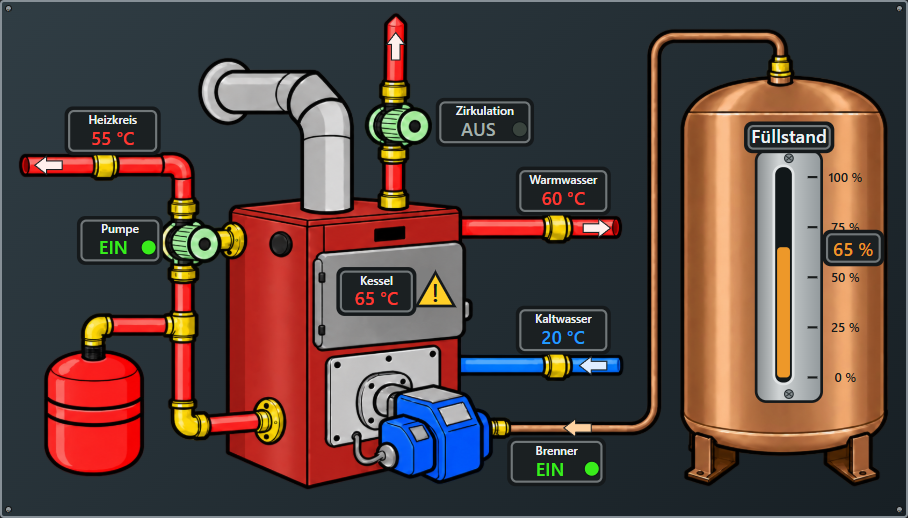
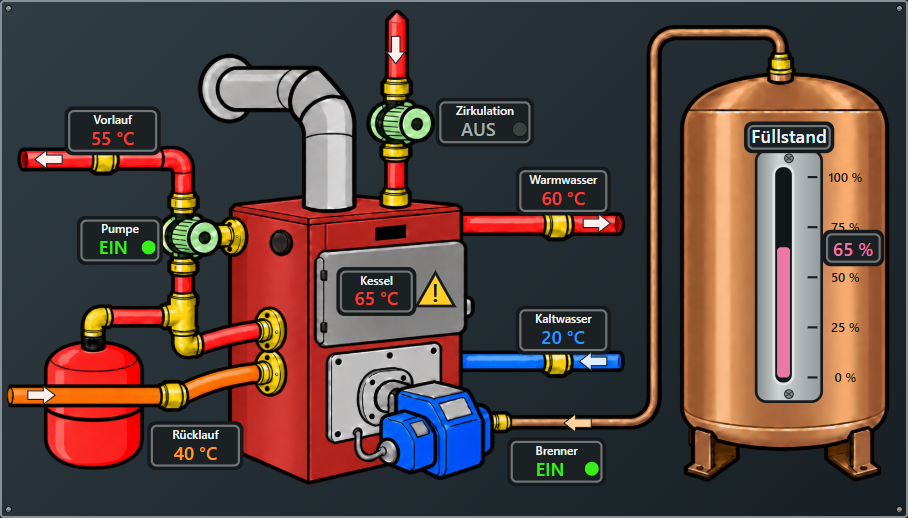
Document heating return controls and revised artwork

Changed region(s): [[0.0, 0.0, 0.9868, 0.9575], [0.0925, 0.2162, 0.1542, 0.2471]]

diff --git a/docs/projects/grafik-visual-studio/industrial.md b/docs/projects/grafik-visual-studio/industrial.md
@@ -5,7 +5,7 @@ description: Installation und Einstellungen des externen Industriepakets für Gr
 
 # UGSo Industrie – Widgets
 
-Das externe Widget-Paket **UGSo Industrie 0.11.5** enthält sechzehn Widgets: **Gauge/Poti – 270°**, **Kippschalter – 1 bis 4**, **Wippschalter – 1 bis 4**, **LCD – 20×4**, **LCD – 16×2**, **Linear-Gauge / Schieberegler** und **Zählwerk** in normaler und schmaler Ausführung, **7-Segment – LED**, **16-Segment – LED**, **16-Segment – LCD**, **Industrie-Uhr – Nixie / LED / LCD**, **Industrie-Wetter – LCD / LED**, **Blindelement** sowie **Heizung – Kessel und Öltank**. Industriestyle ergänzt Gehäuse, Schraubenköpfe und Rahmen. Das Heizungswidget mit der detaillierten Grafik benötigt **Studio 0.1.253 oder neuer**.
+Das externe Widget-Paket **UGSo Industrie 0.11.6** enthält sechzehn Widgets: **Gauge/Poti – 270°**, **Kippschalter – 1 bis 4**, **Wippschalter – 1 bis 4**, **LCD – 20×4**, **LCD – 16×2**, **Linear-Gauge / Schieberegler** und **Zählwerk** in normaler und schmaler Ausführung, **7-Segment – LED**, **16-Segment – LED**, **16-Segment – LCD**, **Industrie-Uhr – Nixie / LED / LCD**, **Industrie-Wetter – LCD / LED**, **Blindelement** sowie **Heizung – Kessel und Öltank**. Industriestyle ergänzt Gehäuse, Schraubenköpfe und Rahmen. Das Heizungswidget mit der detaillierten Grafik benötigt **Studio 0.1.253 oder neuer**.
 
 **Updatehinweis:** Version 0.11.4 konnte wegen geänderter Widgetbeschriftungen nicht über eine bestehende Installation installiert werden. Verwende stattdessen **0.11.5** als lokale `.wg`-Datei; sie bewahrt die veröffentlichten Widgetverträge und Entitätsbindungen. Studio **0.1.259** zeigt die Vorlauf-Einstellungen unter der neuen Bezeichnung an, ohne gespeicherte Gruppenschlüssel zu ändern.
 
@@ -37,12 +37,15 @@ Die detaillierte transparente PNG-Vorlage zeigt einen dunkelroten Heizkessel, zw
 | Anzeige | Entität und Einstellungen |
 | --- | --- |
 | Vorlauftemperatur | Numerische Entität, ausblendbar, eigene Textfarbe |
+| Rücklauftemperatur | Numerische Entität, ausblendbar, eigene Textfarbe; Anzeige unter dem orangefarbenen Rohr |
 | Kessel-, Warmwasser-, Kaltwassertemperatur | Je eine numerische Entität und eigene Textfarbe |
 | Heizkreispumpe, Zirkulationspumpe, Brenner | Je eine Boolean-Entität; Statusanzeige separat ausblendbar |
 | Störung | Boolean-Entität; Warnsymbol neben Kesseltemperatur, ausblendbar |
 | Tankfüllstand | Numerischer Sensor in Prozent **0–100 %**, Füllhöhe und Zahlenwert |
 
-Alle **neun Entitäten** besitzen die Home-Assistant-Auswahl. Boolean-Werte `on/off`, `true/false` und `1/0` werden erkannt; die sichtbare Beschriftung ist wählbar als **EIN/AUS**, **ON/OFF** oder **1/0**. Temperaturen übernehmen die Einheit der Entität und lassen sich unabhängig einfärben. Die Grundfarben entsprechen der Vorlage: rot für Temperaturen, blau für Kaltwasser, grün für eingeschalteten Status, gelb für Störung und orange für Füllstand.
+Alle **zehn Entitäten** besitzen die Home-Assistant-Auswahl. Boolean-Werte `on/off`, `true/false` und `1/0` werden erkannt; die sichtbare Beschriftung ist wählbar als **EIN/AUS**, **ON/OFF** oder **1/0**. Temperaturen übernehmen die Einheit der Entität und lassen sich unabhängig einfärben. Die Grundfarben entsprechen der Vorlage: rot für Temperaturen, orange für Rücklauf, blau für Kaltwasser, grün für eingeschalteten Status, gelb für Störung und rosa für Füllstand.
+
+Ab **Studio 0.1.260** liegt der linke rote Anschluss höher. Der orange Rücklauf verläuft davor mit leichtem Knick parallel zum Anschluss am Kessel; sein Pfeil sitzt links und zeigt nach rechts zum Kessel. Unter **Rücklauf** sind Entität, Anzeige sichtbar, Textfarbe und Flusspfeil einstellbar. Bestehende Widgets erhalten die Eigenschaften durch das Studio-Update; **Industrial 0.11.6** ergänzt die Anleitung und bewahrt die Paketverträge. Vorhandene eigene Füllstandsfarben bleiben erhalten; der alte orange Standard wird einmalig rosa.
 
 **Flusspfeile** für Vorlauf, Zirkulation, Warmwasser, Kaltwasser und die dünne kupferfarbene **Ölleitung zum Brenner** sind einzeln abschaltbar. Die rechte Pumpe befindet sich in einer senkrechten Leitung direkt vom Kessel nach oben. Warm- und Kaltwasser bleiben separate Leitungen. Der Tank-Sensor muss Prozent liefern; Liter werden nicht automatisch umgerechnet. Werte außerhalb 0–100 % begrenzen nur die Füllhöhe, der Originalwert bleibt als Zahl sichtbar.
 

diff --git a/docs/en/projects/grafik-visual-studio/industrial.md b/docs/en/projects/grafik-visual-studio/industrial.md
@@ -5,7 +5,7 @@ description: Installation and settings for the external Industrial package for G
 
 # UGSo Industrial – Widgets
 
-The external **UGSo Industrial 0.11.5** package contains sixteen widgets: **Gauge/Poti – 270°**, **Toggle switches – 1 to 4**, **Rocker switches – 1 to 4**, **LCD – 20×4**, **LCD – 16×2**, normal/slim **Linear gauge / slider** and **Odometer**, **7-segment LED**, **16-segment LED**, **16-segment LCD**, **Industrial clock – Nixie / LED / LCD**, **Industrial weather – LCD / LED**, **Blank panel**, and **Heating – boiler and oil tank**. Industrial styling adds a housing, corner screws and a frame. The detailed heating artwork requires **Studio 0.1.253 or newer**.
+The external **UGSo Industrial 0.11.6** package contains sixteen widgets: **Gauge/Poti – 270°**, **Toggle switches – 1 to 4**, **Rocker switches – 1 to 4**, **LCD – 20×4**, **LCD – 16×2**, normal/slim **Linear gauge / slider** and **Odometer**, **7-segment LED**, **16-segment LED**, **16-segment LCD**, **Industrial clock – Nixie / LED / LCD**, **Industrial weather – LCD / LED**, **Blank panel**, and **Heating – boiler and oil tank**. Industrial styling adds a housing, corner screws and a frame. The detailed heating artwork requires **Studio 0.1.253 or newer**.
 
 **Upgrade note:** Version 0.11.4 could not upgrade existing installations because widget captions changed. Use **0.11.5** as a local `.wg` file instead; it preserves published widget contracts and entity bindings. Studio **0.1.259** displays supply captions without changing persisted group keys.
 
@@ -37,12 +37,15 @@ The detailed transparent PNG reference places a dark-red boiler, two green pumps
 | Display | Entity and settings |
 | --- | --- |
 | Supply temperature | Numeric entity, optional display, individual text color |
+| Return temperature | Numeric entity, optional display, individual text color; panel below the orange pipe |
 | Boiler, hot and cold water temperatures | Independent numeric entities and text colors |
 | Heating pump, circulation pump, burner | Independent Boolean entities; each status panel can be hidden |
 | Fault | Boolean entity; warning next to boiler temperature, optional |
 | Tank level | Numeric percentage sensor **0–100 %**, liquid height and reading |
 
-All **nine entity fields** offer the Home Assistant picker. Boolean states `on/off`, `true/false` and `1/0` are recognized; labels can use **EIN/AUS**, **ON/OFF** or **1/0**. Temperature units come from the entity. Default colors match the concept: red temperatures, blue cold water, green active status, yellow fault and orange level.
+All **ten entity fields** offer the Home Assistant picker. Boolean states `on/off`, `true/false` and `1/0` are recognized; labels can use **EIN/AUS**, **ON/OFF** or **1/0**. Temperature units come from the entity. Default colors match the concept: red temperatures, orange return, blue cold water, green active status, yellow fault and pink level.
+
+Since **Studio 0.1.260**, the left red connection is raised and an orange return pipe runs in front with a slight bend parallel to the boiler connection. Its arrow sits at the left end and points right toward the boiler. **Return** properties provide entity selection, visibility, text color and an independent flow arrow. Existing widgets receive these controls through the Studio update; **Industrial 0.11.6** updates instructions while preserving package contracts. Custom tank colors are retained; the old orange default migrates once to pink.
 
 **Flow arrows** for supply, circulation, hot water, cold water and the thin copper **oil line toward the burner** can be disabled independently. The right pump sits in a straight vertical pipe rising from the boiler; hot and cold water are separate lines. The tank sensor must provide percent, with no automatic litre conversion. Out-of-range readings clamp the column while retaining the original number.
 
